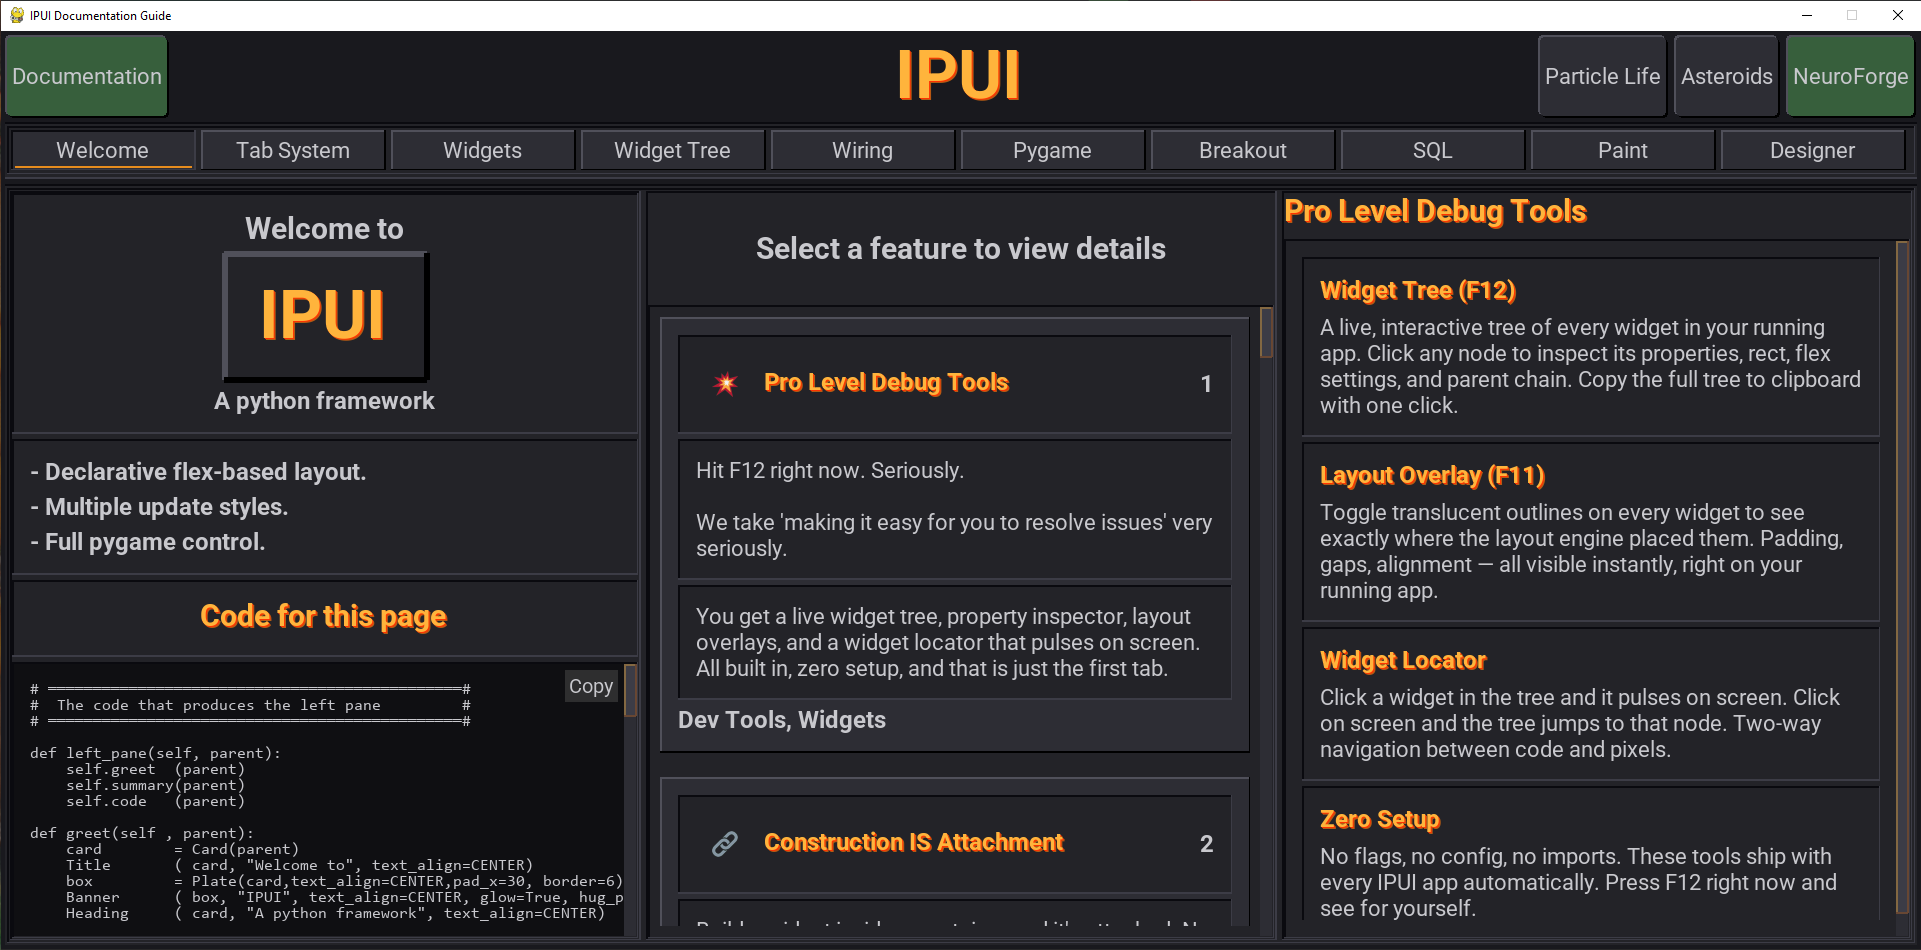
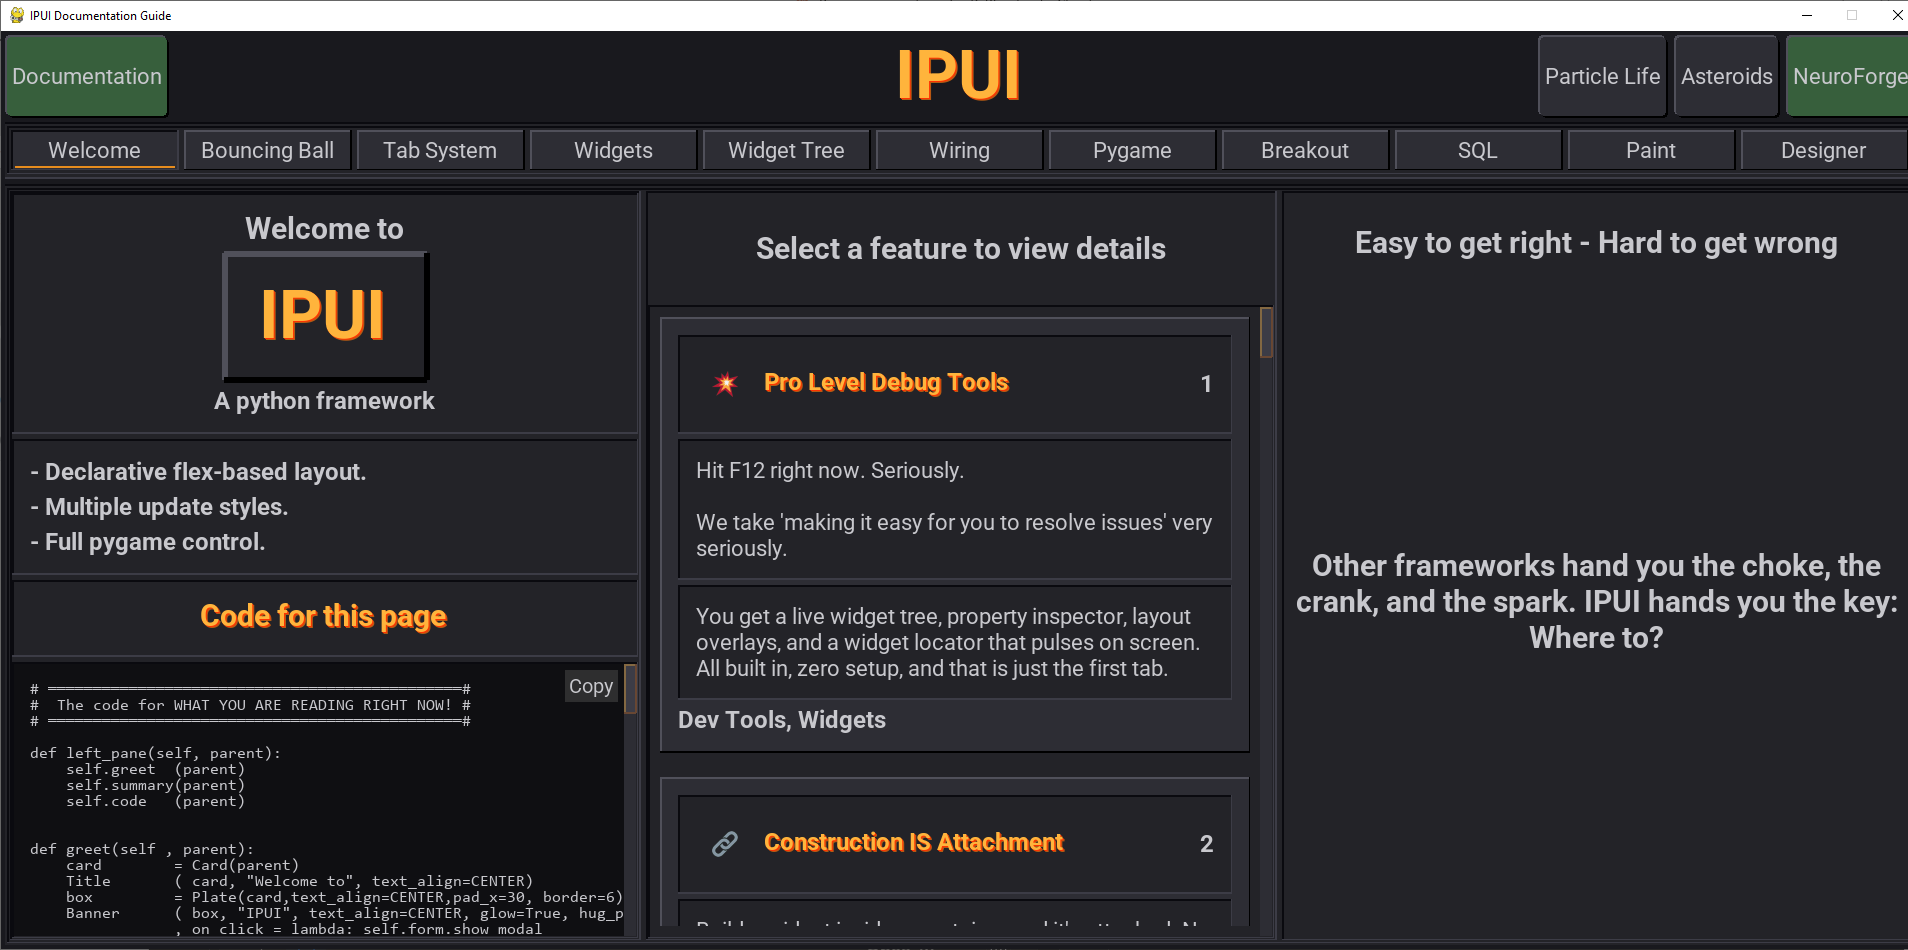
fixed packaging defects 2

diff --git a/src/ipui/_forms/Showcase/Welcome.py b/src/ipui/_forms/Showcase/Welcome.py
@@ -5,7 +5,7 @@ class We_HopeYouLoveIPUI(_BaseTab):
     """Opening tab of showcase/documentation"""
 
     # ══════════════════════════════════════════════#
-    #  The code that produces the left pane         #
+    #  The code for WHAT YOU ARE READING RIGHT NOW! #
     # ══════════════════════════════════════════════#
 
     def left_pane(self, parent):
@@ -13,11 +13,15 @@ class We_HopeYouLoveIPUI(_BaseTab):
         self.summary(parent)
         self.code   (parent)
 
+
     def greet(self , parent):
         card        = Card(parent)
         Title       ( card, "Welcome to", text_align=CENTER)
         box         = Plate(card,text_align=CENTER,pad_x=30, border=6)
-        Banner      ( box, "IPUI", text_align=CENTER, glow=True, hug_parent=True) #shrink the box down to child size
+        Banner      ( box, "IPUI", text_align=CENTER, glow=True, hug_parent=True
+                    , on_click = lambda: self.form.show_modal
+                    ( "Easy to get right! Hard to get wrong!")
+                    )
         Heading     ( card, "A python framework", text_align=CENTER)
 
     def summary(self, parent):
@@ -691,3 +695,6 @@ class We_HopeYouLoveIPUI(_BaseTab):
     def detail(self, parent):
         Body(parent,"",name="IPUI Mantras")
         Title(parent, "Easy to get right - Hard to get wrong", text_align=CENTER)
+        Spacer(parent)
+        Title(parent, "Other frameworks hand you the choke, the crank, and the spark. IPUI hands you the key: Where to?", text_align=CENTER)
+        Spacer(parent)

diff --git a/README.md b/README.md
@@ -27,7 +27,7 @@ python -m pip install ipui
 - [Installation](#Installation)
 - [Important Note: Why IPUI Does Things Differently](#important-note-why-ipui-does-things-differently)
 - [Quick Start](#quick-start)
-  - [Step 1: First Taste — Run in 30 Seconds](#step-1-first-taste--run-in-30-seconds)
+  - [Step 1: Run in 30 Seconds](#step-1-first-taste--run-in-30-seconds)
   - [Step 2: Open Widgets — Let IPUI Forge the File](#step-2-open-widgets--let-ipui-forge-the-file)
   - [Step 3: Customize and Scale](#step-3-customize-and-scale)
 - [Run the Showcase](#run-the-showcase)
@@ -95,13 +95,13 @@ python -m pip install ipui
 - 📐 **Declarative Layout:** Simple, flexible syntax that handles the math so you can focus on the logic.
 - 🔗 **Construction IS Attachment:** No floating widgets or `add()` calls. If you build it inside a container, it's attached automatically.
 - 🧩 **Built to Extend:** Custom widgets get layout, events, and styling automatically. Standard widgets take 5–10 LOC; even tools like a network diagram widget come in under 150 LOC.
-- 📜 **One-Touch Scrolling:** Make any Card scrollable with a single parameter—no complex viewport setup required. Scrollbars are draggable and styled automatically.
+- 📜 **One-Touch Scrolling:** Make any Card scrollable with a single parameter—no complex viewport setup required. Scrollbars are styled automatically.
 - 📱 **Resolution Independent:** UI scales automatically to physical screen height, so it stays usable on an old laptop or a 4K monitor.  **Changing aspect ratio can still cause issues**
 - 🔄 **Multiple Update Styles:** Use DAG-based reactivity, pipeline-driven synchronization, or direct widget access—whichever fits the job best.
 - ⛓️ **Data Pipeline:** Bind widgets to a Pipeline Key and let IPUI propagate updates automatically. Derives stay in sync with zero manual update code.
 - 🎮 **Pygame Lifecycle Hooks:** `ip_think`, `ip_draw`, and `ip_draw_hud` give you full access to the game loop without fighting the framework.
 - 💡 **Multi-Tier Tooltips:** Choose between standard hover tips or "Super Tooltips"—pinnable, scrollable windows capable of displaying deep technical data.
-- 🗃️ **Automatic Widget Registry:** When DAG or pipeline isn't the right fit, named widgets stay easy to reach across tabs and panes—no globals, no reference plumbing required.
+- 🗃️ **Automatic Widget Registry:** When DAG or pipeline isn't the right fit, named widgets stay easy to reach across tabs and panes; **no reference plumbing required.**
 - 🐞 **Pro Debug Mode:** Includes a live Widget Tree and layout overlays to make positioning issues easy to diagnose.
 - 💻 **Beautiful Code Boxes:** Display source code by passing a string or a file path; IPUI handles the formatting.
 - 🗺️ **Tab Map:** A bird's-eye view of your entire application for quick review and navigation.
@@ -113,26 +113,39 @@ python -m pip install ipui
 
 ## Installation
 
-> Create a clean project folder:
-> Any name works.  ipui-test is just an example.
+Create a clean project folder. Any name works — `ipui-test` is just an example.
 
 ```bat
 mkdir ipui-test
 cd ipui-test
 ```
 
-> Create and activate a virtual environment:
+Create and activate a virtual environment:
 
 ```bat
 python -m venv testenv
 testenv\Scripts\activate.bat
 ```
 
-> Install `ipui`:
+Install `ipui`:
 
 ```bat
 python -m pip install ipui
 ```
+
+---
+
+## Run the Showcase
+
+Want to see what IPUI can do before you build a thing? Run `docs()` and you'll get a fully interactive widget gallery — every widget, every layout pattern, every trick, all live and clickable. It's the fastest way to go from "looks interesting" to "now I know what to steal."
+
+```python
+from ipui import *
+docs()
+```
+
+<!-- SCREENSHOT: ipui/assets/images/showcase.png — demo apps and tutorials -->
+![Showcase Screenshot](https://raw.githubusercontent.com/Oldwolfster/IPUI/main/src/ipui/assets/images/showcase.png)
 
 ---
 
@@ -208,7 +221,7 @@ Three tabs appear immediately:
   - **Widgets**       — show IPUI's helper card with template options
   - **Bouncing Ball** — show IPUI's helper card with template options
 
-> If you get stuck, while it's running press **F12 for X-ray debug tools**
+> **Something not sitting where you expect?** Press **F12** while it’s running and pop open the **X-Ray debug tools**.
 ---
 
 ### Step 2: Open Widgets — Let IPUI Forge the File
@@ -228,7 +241,7 @@ Instead of throwing an error or even showing an empty tab, IPUI steps in with a 
 
 Pick Full Showcase on the Widgets tab. IPUI will create Widgets.py and hot-swap in a complete, interactive widget playground with real working controls (buttons, textboxes, cards, grids, etc.).
 
-It's not a dead stub — it's live code you can immediately click, rearrange, and copy-paste from.
+It's not a dead stub — it's a cookbook of live code you can immediately click, rearrange, and copy-paste from.
 
 ---
 
@@ -252,22 +265,6 @@ This is the normal workflow:
 You can define pane methods directly inside _BaseForm (as in the smoke test) or in separate files — both work seamlessly.
 
 ---
-
-## Run the Showcase
-
-Want to see what IPUI can do before you build a thing? Run `docs()` and you'll get a fully interactive widget gallery — every widget, every layout pattern, every trick, all live and clickable. It's the fastest way to go from "looks interesting" to "now I know what to steal."
-
-```python
-from ipui import *
-docs()
-```
-
-<!-- SCREENSHOT: ipui/assets/images/showcase.png — demo apps and tutorials -->
-![Showcase Screenshot](https://raw.githubusercontent.com/Oldwolfster/IPUI/main/src/ipui/assets/images/showcase.png)
-
-
----
-
 ## Core Concepts
 
 ### The Blueprint: TAB_LAYOUT